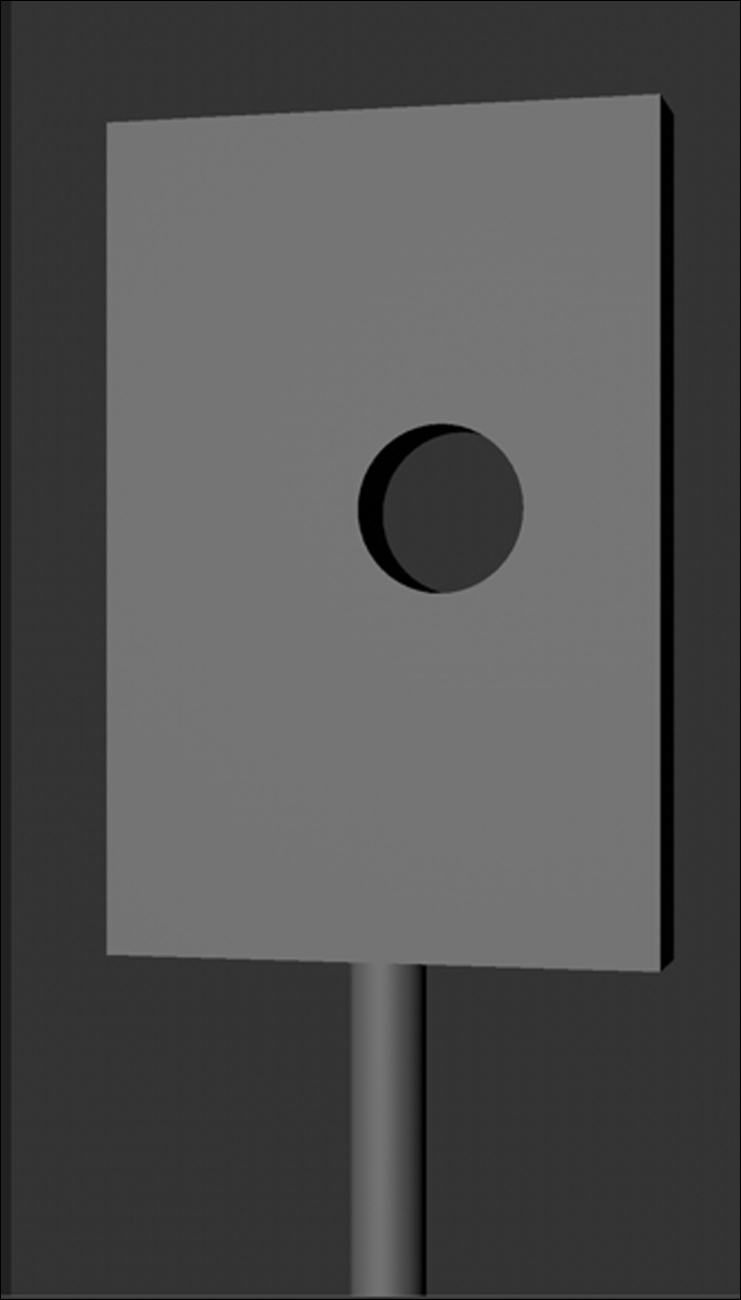
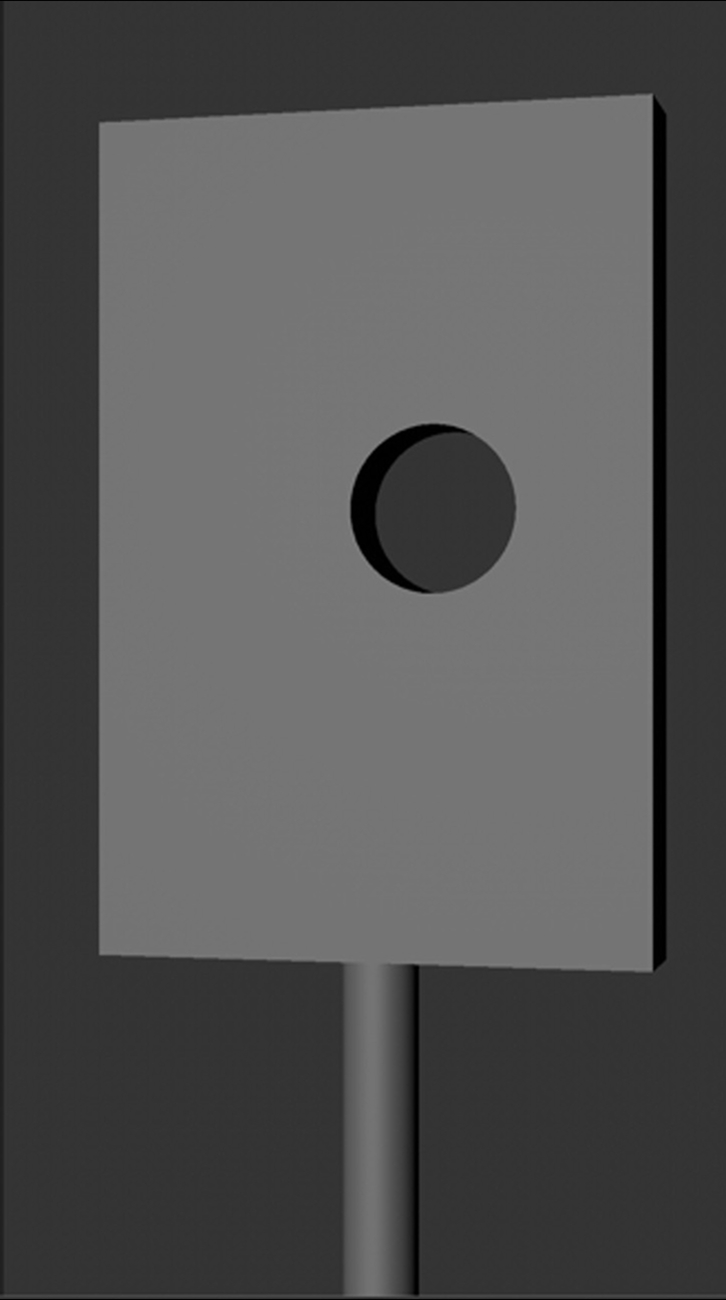
Content Push - Updates and Fixes

diff --git a/projects/iams-smooth-delivery.html b/projects/iams-smooth-delivery.html
@@ -3,7 +3,7 @@
   <head>
     <meta charset="UTF-8" />
     <meta name="viewport" content="width=device-width, initial-scale=1.0" />
-    <title>Your Wagen - richard bailey</title>
+    <title>Smooth Delivery - richard bailey</title>
     <link rel="icon" href="../images/favicon/favicon-hero.png" type="image/x-icon">
     <link rel="icon" type="image/svg+xml" href="../images/favicon/favicon-hero-192x192.svg">
     <link rel="manifest" href="../images/favicon/site.webmanifest">
@@ -18,8 +18,7 @@
       <h2 class="text-2xl font-medium mb-2">Smooth Delivery</h2>
       <div class="text-black-500 mb-4">Iams &middot; Social &middot; AI Prompt &middot; AI Producer &middot; 2026</div>
       <p class="text-base mb-6">
-
-      The challenge: Volkswagen wanted to capture 3x beautiful scenes - each with mini stories within them - in the grit of a UK winter with unpredictable weather and to a tight end of January delivery deadline.
+          Smooth Delivery is a social campaign for IAMS built around a smart, budget-conscious hybrid AI pipeline that I designed and engineered & produced from the ground up.
     </section>
 
   
@@ -33,7 +32,7 @@
           preload="auto"
           onmouseover="this.controls = true"
           onmouseout="this.controls = false"
-          poster="../assets/iams/smooth-delivery/IAMs_Smooth-Delivery_Thumbnail.jpg"
+          poster="../assets/iams/smooth-delivery/IAMs_Smooth-Delivery_Thumbnail-9x16.jpg"
           tabindex="0"
           style="height: 70vh; width: auto; outline: none;"
         >Sorry, your browser doesn't support embedded videos.
@@ -43,20 +42,27 @@
 
 <section class="mb-10 max-w-3xl">
       <p class="text-base mb-6">
-The Fix: A hybrid AI workflow. We paired studio performances by photographer Sam Barker with a studio product shoot and a custom build AI-generated environment workflow - build bespoke for this production which was then handed over to retouching to increase efficiencies and reduce costs. 
+The brief was clear: utilise generative AI but maintain enough control to handle client feedback without spiralling costs. Knowing how unpredictable fully AI-generated content can be, I proposed breaking the social down into three distinct components: the background, the billboard with the cat comped on, and the rollercoaster. Each element was treated differently based on what the technology could reliably deliver. The background and billboard were generated in AI, while the rollercoaster was handled using stock footage and rotoscoped out by the internal team, a deliberate call based on the complexity of fast movement and talent licensing.
 <br><br>
-The Outcome: Three cinematic stills for Volkswagen that celebrate the life’s adventures as part of the 2026 Tiguan Campaign. Lovingly produced alongside Lee Bryan for a January 2026 launch.      </p>     
+The pipeline itself was built in Runway using custom system prompt nodes, each assigned a specific task. One of the more considered moments was taking Hash's low-fidelity 3D billboard angle, created specifically to nail the rollercoaster exit perspective, and using that as the foundation to build the approved scene in AI, giving us precise creative control at every stage.
     </section>
 
     <section class="mb-10">
       <div class="grid grid-cols-1 sm:grid-cols-4 md:grid-cols-6 gap-4">
         <img src="../assets/iams/smooth-delivery/IAMs_Smooth-Delivery_01.jpg" class="w-full object-cover" alt="">
         <img src="../assets/iams/smooth-delivery/IAMs_Smooth-Delivery_02.jpg" class="w-full object-cover" alt="">
-        <img src="../assets/iams/smooth-delivery/IAMs_Smooth-Delivery_04.jpg" class="w-full object-cover" alt="">
+        <img src="../assets/iams/smooth-delivery/IAMs_Smooth-Delivery_04 1.jpg" class="w-full object-cover" alt="">
         <img src="../assets/iams/smooth-delivery/IAMs_Smooth-Delivery_05.jpg" class="w-full object-cover" alt="">
         <img src="../assets/iams/smooth-delivery/IAMs_Smooth-Delivery_08.jpg" class="w-full object-cover" alt="">
         <img src="../assets/iams/smooth-delivery/IAMs_Smooth-Delivery_06.jpg" class="w-full object-cover" alt="">
       </div>
+    </section>
+
+    <section class="mb-10 max-w-3xl">
+      <p class="text-base mb-6">
+Throughout the process I guided the client team through each generative AI decision, managed the picture lock on each component, and flagged anything that needed attention before it became a problem. Motion across the piece was rotoscoped by the internal team, with the background motion generated by me. Sound design and grade were handled by the brilliant team at No.8.
+<br><br>
+The client was delighted with the result, a polished and purposeful piece of social that punched well above its budget.
     </section>
 
     <!-- <section class="mb-10">
@@ -68,24 +74,6 @@ The Outcome: Three cinematic stills for Volkswagen that celebrate the life’s a
         <img src="../assets/iams/smooth-delivery/IAMs_Smooth-Delivery_08.jpg" class="w-full object-cover" alt="">
       </div>
     </section> -->
-
-    <section class="mb-10 flex justify-center">
-        <video
-          src="../assets/iams/smooth-delivery/shutterstock_1101471295_SLO.mp4"
-          autoplay
-          muted
-          loop
-          playsinline
-          preload="auto"
-          onmouseover="this.controls = true"
-          onmouseout="this.controls = false"
-          poster="../assets/iams/smooth-delivery/IAMs_Smooth-Delivery_Thumbnail.jpg"
-          tabindex="0"
-          style="height: 70vh; width: auto; outline: none;"
-        >Sorry, your browser doesn't support embedded videos.
-        </video>
-    </section>
-
 <section class="mb-10">
   <div class="grid grid-cols-1 sm:grid-cols-4 md:grid-cols-4 gap-4">
     
@@ -119,10 +107,22 @@ The Outcome: Three cinematic stills for Volkswagen that celebrate the life’s a
   </div>
 </section>
 
-
-
-
-
+<section class="mb-10 flex justify-center">
+        <video
+          src="../assets/iams/smooth-delivery/shutterstock_1101471295_SLO.mp4"
+          autoplay
+          muted
+          loop
+          playsinline
+          preload="auto"
+          onmouseover="this.controls = true"
+          onmouseout="this.controls = false"
+          poster="../assets/iams/smooth-delivery/IAMs_Smooth-Delivery_Thumbnail.jpg"
+          tabindex="0"
+          style="height: 70vh; width: auto; outline: none;"
+        >Sorry, your browser doesn't support embedded videos.
+        </video>
+    </section>
 
     <section>
       <!-- <div class="flex flex-col gap-1 text-xs text-black-400"> -->
@@ -136,6 +136,7 @@ The Outcome: Three cinematic stills for Volkswagen that celebrate the life’s a
           <p>Producer: Richard Bailey</p>
           <p>Agency Producer: Catharina Van Leuven & Jaki-Jo Hanan</p>
           <p>Account Team: Stephanie Taylor</p>
+          <p>Sound & Colour: No.8</p>
       <!-- etc -->
         </div>
       </section>

diff --git a/projects/adamandeve-website.html b/projects/adamandeve-website.html
@@ -3,7 +3,7 @@
   <head>
     <meta charset="UTF-8" />
     <meta name="viewport" content="width=device-width, initial-scale=1.0" />
-    <title>the last photo - richard bailey</title>
+    <title>adam&eveDDB Website Rebrand - richard bailey</title>
     <link rel="icon" href="../images/favicon/favicon-hero.png" type="image/x-icon">
     <link rel="icon" type="image/svg+xml" href="../images/favicon/favicon-hero-192x192.svg">
     <link rel="manifest" href="../images/favicon/site.webmanifest">
@@ -18,8 +18,11 @@
       <h2 class="text-2xl font-medium mb-2">adam&eveDDB Website Rebrand</h2>
       <div class="text-black-500 mb-4">adam&eveDDB &middot; Digital &middot; 2023</div>
       <p class="text-base mb-6">
-      As one of the producers on The Last Photo campaign for CALM x ITV, I helped bring to life a powerful 360 activation designed to challenge perceptions around suicide. The campaign began with an unbranded installation along London’s South Bank, featuring 50 large smiling portraits. Two days later, it was revealed live on ITV that each photo was the last image taken before the individual died by suicide—underscoring the message that “suicidal doesn’t always look suicidal".</p>     
-      </p>     
+        Acting as the Lead Digital Producer, I oversaw the redesign and rebrand of four agency websites across London, NYC, West, and Berlin, bringing them in line with a new global identity for adam&eveDDB.
+      <br>
+      <br>
+      The project started with a thorough audit of the existing data structure to ensure continuity and scalability before a line of code was touched. From there I worked closely with UX designers and developers to recommend the right CMS solution and oversee the re-skinning across all four regions, keeping the experience cohesive whether you landed in London or Berlin.
+
     </section>
 
     <!-- Hero Image -->
@@ -42,7 +45,7 @@
 
     <section class="mb-10 max-w-3xl">
       <p class="text-base mb-6">
-        I was closely involved in producing the digital elements of the campaign, including the ooh, press & the implementation of QR codes at the exhibition. These codes gave visitors access to audio testimonies from loved ones and connected them directly to detailed story pages hosted on CALM’s website. This digital layer deepened the emotional resonance of the campaign and helped drive engagement beyond the physical installation.</p>     
+        Once live, I handed each site over to the respective new business teams and made sure they felt confident running things day to day. The main London site lives at adamandeveddb.com.
     </section>
 
     <section class="mb-10">
@@ -54,47 +57,21 @@
       </div>
     </section>
 
-    <section class="mb-10 max-w-3xl">
-        <p class="text-base mb-6">
-Alongside the campaign was also a video directed by Max Fisher who came on board with the simple task: How can you visualise “suicidal doesn’t always look suicidal".</section>
-
-
-    <!-- <section class="mb-10">
-      <video
-        src="/assets/calm/calm-the-last-photo-05.mp4"
-        class="w-full"
-        autoplay
-        muted
-        loop
-        playsinline
-        preload="auto"
-        onmouseover="this.controls = true"
-        onmouseout="this.controls = false"
-        poster="../assets/calm/calm-the-last-photo-01.jpg"
-        tabindex="0"
-        style="outline: none;"
-        >Sorry, your browser doesn't support embedded videos.
-      </video>
-    </section> -->
-
-    
-    <section>
       <!-- <div class="flex flex-col gap-1 text-xs text-black-400"> -->
     <section class="mb-10">
         <div class="h3">
           <h2 class="text-2xl font-medium mb-2">team</h2>
           <p>Agency: adam&eveDDB</p>
-          <p>Creatives: Andy Clough & Richard McGrann</p>
-          <p>Director: Max Fisher</p>
-          <p>Production: Amy Simmons & Richard Bailey</p>
-          <p>Designer: Scott Silvey & Mauricio Brandt</p>
-          <p>Audio Engineer: Parv Thind</p>
-          <p>Account Team: Rosie Snowball, Adam Patel, Louis Lunts</p>
+          <p>Art Director: Chris Chapman</p>
+          <p>Digital Producer: Richard Bailey</p>
+          <p>Digital Designer: Mauricio Brandt</p>
+          <p>Full-Stack Developer: Ben Aldrich & Max McCloud</p>
+          <p>Account Team: Miranda Hipwell</p>
       <!-- etc -->
         </div>
       </section>
 
-      <section class="mb-20 max-w-3xl">
+      <!-- <section class="mb-20 max-w-3xl">
         <h2 class="text-2xl font-medium mb-2">awards</h2>
           <div class="flex flex-col gap-2 text-xs text-black-400">
           <div class="flex items-center gap-2">

diff --git a/projects/waitrose-cooks.html b/projects/waitrose-cooks.html
@@ -17,29 +17,42 @@
     <!-- Project Title & Info -->
     <section class="mb-10 max-w-3xl">
       <h2 class="text-2xl font-medium mb-2">cooks ingredients</h2>
-      <div class="text-black-500 mb-4">waitrose &middot; Film &middot; 2022</div>
+      <div class="text-black-500 mb-4">waitrose &middot; Print &middot; 2022</div>
       <p class="text-base mb-6">
-        This project was a campaign for Great Western Railway, celebrating the nostalgia and joy of travel with a modern twist. I was involved in creative development, shoot production, and post-delivery, collaborating with an amazing team and client.
-      </p>     
-    </section>
+          Shot at Narroway Studios by the wonderfully talented Issy Crocker, Cooks' Ingredients is a product campaign for Waitrose built around five routes of beautiful still life photography, each paired with a simple, witty headline that lets the product do the talking.     
+          <br>
+          <br>
+          My role covered the full production of the shoot, working closely with the creative team to ensure each route felt considered, consistent. I also took my duties as honorary food tester very seriously.
+          </p>
+        </section>
 
     <!-- Hero Image -->
-    <section class="mb-10">
+    <!-- <section class="mb-10">
         <img src="../assets/waitrose/waitrose-cooks-6.jpg"
         alt="Five Get There First — Project Hero"
         class="w-full h-150 md:h-150 object-cover object-top" />
-    </section>
+    </section> -->
 
     <!-- Optional: Project Gallery, Video, or More Sections -->
     
     <section class="mb-10">
-      <div class="grid grid-cols-1 sm:grid-cols-2 md:grid-cols-5 gap-4">
-        <img src="../assets/waitrose/waitrose-cooks-1.png" class="w-full object-cover" alt="">
-        <img src="../assets/waitrose/waitrose-cooks-2.png" class="w-full object-cover" alt="">
-        <img src="../assets/waitrose/waitrose-cooks-3.png" class="w-full object-cover " alt="">
+      <div class="grid grid-cols-1 sm:grid-cols-2 md:grid-cols-2 gap-4">
+        <!-- <img src="../assets/waitrose/waitrose-cooks-1.png" class="w-full object-cover" alt="">
+        <img src="../assets/waitrose/waitrose-cooks-2.png" class="w-full object-cover" alt=""> -->
+        <!-- <img src="../assets/waitrose/waitrose-cooks-3.png" class="w-full object-cover " alt=""> -->
         <img src="../assets/waitrose/waitrose-cooks-4.png" class="w-full object-cover " alt="">
         <img src="../assets/waitrose/waitrose-cooks-5.png" class="w-full object-cover " alt="">
     <!-- Add more images as needed -->
+      </div>
+    </section>
+
+    <section class="mb-10">
+      <div class="grid grid-cols-1 sm:grid-cols-2 md:grid-cols-3 gap-4">
+        <img src="../assets/waitrose/waitrose-cooks-1.png" class="w-full object-cover" alt="">
+        <img src="../assets/waitrose/waitrose-cooks-2.png" class="w-full object-cover" alt="">
+        <img src="../assets/waitrose/waitrose-cooks-3.png" class="w-full object-cover " alt="">
+        <!-- <img src="../assets/waitrose/waitrose-cooks-4.png" class="w-full object-cover " alt="">
+        <img src="../assets/waitrose/waitrose-cooks-5.png" class="w-full object-cover " alt=""> -->
       </div>
     </section>
 

diff --git a/projects/columbia-bear-poo.html b/projects/columbia-bear-poo.html
@@ -19,10 +19,10 @@
       <div class="text-black-500 mb-4">Columbia &middot; Social &middot; AI Prompt &middot; AI Producer &middot; 2026</div>
       <p class="text-base mb-6">
 
-      The challenge: Volkswagen wanted to capture 3x beautiful scenes - each with mini stories within them - in the grit of a UK winter with unpredictable weather and to a tight end of January delivery deadline.
-    </section>
+          Nature's Calling was a teaser social for Columbia's campaign around a beer brewed from bear poo. Yes, really.
+          The concept was simple and brilliantly absurd: a bear wandering through a forest, finding a toilet, and doing what bears do. The budget however wasn't going to stretch to traditional CG, so the team turned to generative AI to bring it to life.
+        </section>
 
-  
     <section class="mb-10 flex justify-left">
         <video
           src="../assets/columbia/bear-poo/OSUK-201281_Columbia_Social_Teaser_Toilet_Bear.mp4"
@@ -47,10 +47,13 @@
 
 <section class="mb-10 max-w-3xl">
       <p class="text-base mb-6">
-The Fix: A hybrid AI workflow. We paired studio performances by photographer Sam Barker with a studio product shoot and a custom build AI-generated environment workflow - build bespoke for this production which was then handed over to retouching to increase efficiencies and reduce costs. 
+I built a purpose-built AI pipeline within Runway Workflow, using a carefully tuned series of prompts, nodes and reference images designed to plug directly into a wider post-production pipeline. The environment was considered from the start, with consistent lighting, camera movement and environmental factors all working quietly in the background to mask the imperfections that generative AI can sometimes throw up.
 <br><br>
-The Outcome: Three cinematic stills for Volkswagen that celebrate the life’s adventures as part of the 2026 Tiguan Campaign. Lovingly produced alongside Lee Bryan for a January 2026 launch.      </p>     
-    </section>
+Once all the clips were generated, the talented Darnell Depradine took over in the edit, weaving together multiple camera angles and actions into something genuinely funny and cohesive. Sound was handled by the brilliant team at No.8, with one particularly inspired moment: the unmistakable plop courtesy of a banana dropped into a real toilet.   
+<br>
+<br>
+Across the project I covered producing, AI prompting, pipeline build and traditional post production from start to finish.
+</section>
 
     <section class="mb-10">
       <div class="grid grid-cols-1 sm:grid-cols-4 md:grid-cols-4 gap-4">

diff --git a/projects/lucky-the-cat.html b/projects/lucky-the-cat.html
@@ -19,27 +19,27 @@
       <div class="text-black-500 mb-4">Agency &middot; AI &middot; AI Prompt &middot; AI Producer &middot; 2025</div>
       <p class="text-base mb-6">
 
-      The challenge: Volkswagen wanted to capture 3x beautiful scenes - each with mini stories within them - in the grit of a UK winter with unpredictable weather and to a tight end of January delivery deadline.
+The brief was a fun one: an undisclosed client needed help visualising a script featuring a black cat wandering through their office. All they had were photos of the space and a modest budget that ruled out traditional VFX.
     </section>
 
   
     <section class="mb-10">
-        <img src="../assets/lucky-the-cat/lucky-the-cat-thumb.jpg"
-        class="w-full h-150 md:h-150 object-cover object-top" />
+        <img src="../assets/lucky-the-cat/Black-Cat-Hero-2.jpg"
+        class="w-full h-100 md:h-100 object-cover object-center" />
     </section>
 
     <!-- Add more images as needed -->
       </div>
     </section>
 
-  
-
 <section class="mb-10 max-w-3xl">
       <p class="text-base mb-6">
-The Fix: A hybrid AI workflow. We paired studio performances by photographer Sam Barker with a studio product shoot and a custom build AI-generated environment workflow - build bespoke for this production which was then handed over to retouching to increase efficiencies and reduce costs. 
+I proposed a generative AI fix. Rather than settling for generic stock or basic compositing, I built a bespoke pipeline in Runway Workflow using a series of custom nodes designed to integrate the cat consistently across different shots, lighting conditions and environments. Crucially, this meant the team could have their actual workspace in the film, something they'd assumed was well outside their budget.
 <br><br>
-The Outcome: Three cinematic stills for Volkswagen that celebrate the life’s adventures as part of the 2026 Tiguan Campaign. Lovingly produced alongside Lee Bryan for a January 2026 launch.      </p>     
-    </section>
+Character consistency was a key consideration throughout, with specific nodes built to keep the cat feeling like it belonged in every scene rather than just passing through. Once all the clips were generated I handed them over to the editor to cut as they saw fit, and they were delighted with the results.
+<br><br>
+A polished, characterful piece delivered at a fraction of the cost and timeline of a traditional VFX pipeline.
+</section>
 
     <section class="mb-10">
   <div class="grid grid-cols-1 sm:grid-cols-4 md:grid-cols-2 gap-4">

diff --git a/projects/ipc-we-the-15.html b/projects/ipc-we-the-15.html
@@ -3,7 +3,7 @@
   <head>
     <meta charset="UTF-8" />
     <meta name="viewport" content="width=device-width, initial-scale=1.0" />
-    <title>the last photo - richard bailey</title>
+    <title>#WeThe15 - richard bailey</title>
     <link rel="icon" href="../images/favicon/favicon-hero.png" type="image/x-icon">
     <link rel="icon" type="image/svg+xml" href="../images/favicon/favicon-hero-192x192.svg">
     <link rel="manifest" href="../images/favicon/site.webmanifest">
@@ -16,9 +16,9 @@
     <!-- Project Title & Info -->
     <section class="mb-10 max-w-3xl">
       <h2 class="text-2xl font-medium mb-2">#WeThe15</h2>
-      <div class="text-black-500 mb-4">international paralympics committee&middot; Digital&middot; 2023</div>
+      <div class="text-black-500 mb-4">international paralympics committee &middot; Digital &middot; 2023</div>
       <p class="text-base mb-6">
-      As one of the producers on The Last Photo campaign for CALM x ITV, I helped bring to life a powerful 360 activation designed to challenge perceptions around suicide. The campaign began with an unbranded installation along London’s South Bank, featuring 50 large smiling portraits. Two days later, it was revealed live on ITV that each photo was the last image taken before the individual died by suicide—underscoring the message that “suicidal doesn’t always look suicidal".</p>     
+        #WeThe15 was a global movement launched alongside the Tokyo 2020 Paralympic Games, shining a light on the 1.2 billion people worldwide living with a disability.
       </p>     
     </section>
 
@@ -46,7 +46,7 @@
 
     <section class="mb-10 max-w-3xl">
       <p class="text-base mb-6">
-        I was closely involved in producing the digital elements of the campaign, including the ooh, press & the implementation of QR codes at the exhibition. These codes gave visitors access to audio testimonies from loved ones and connected them directly to detailed story pages hosted on CALM’s website. This digital layer deepened the emotional resonance of the campaign and helped drive engagement beyond the physical installation.</p>     
+        My contribution was focused on producing the social design templates for the campaign, with accessibility considered and baked in throughout every stage of the design process. Working closely with the talented Mauricio Brandt, the result was a clean, bold suite of assets that felt as inclusive as the message they carried.
     </section>
 
     <!-- <section class="mb-10">
